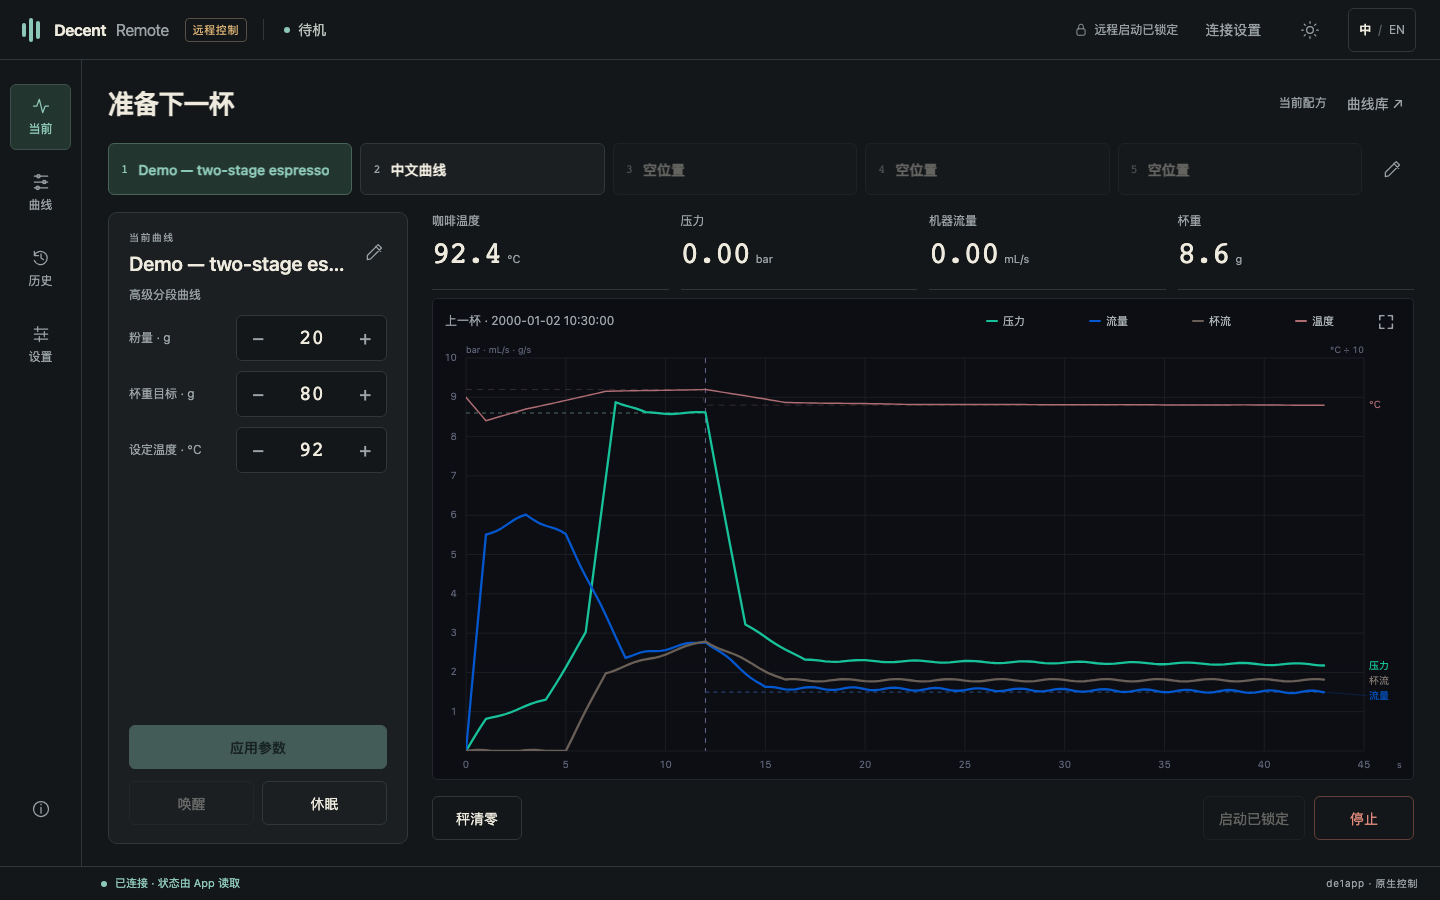
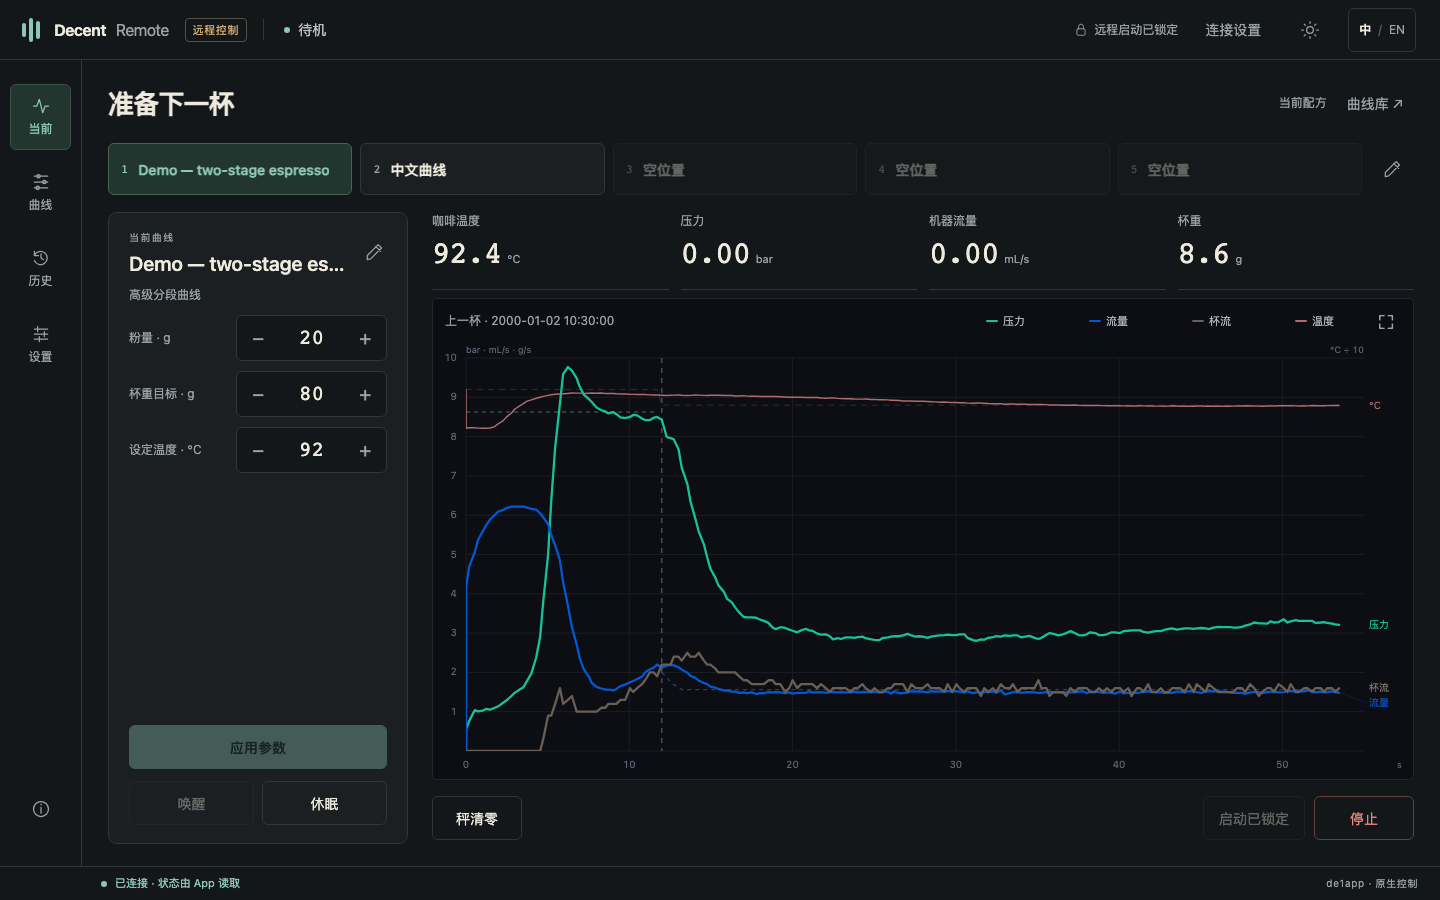
docs: clarify hardware validation and HDS integration; refresh shot screenshots

diff --git a/README.md b/README.md
@@ -14,10 +14,11 @@ The project grew out of two goals: bring more of the remote-control experience o
 
 ![Decent Remote browser dashboard](docs/images/current-en-dark.png)
 
-**Version 0.3.4** · [Download the plugin](https://github.com/chowjw-code/de1app-plugin-decent-remote/releases/latest) · [Usage by country](https://chowjw-code.github.io/de1app-plugin-decent-remote/)  
+**Version 0.3.4** · [Download the plugin](https://github.com/chowjw-code/de1app-plugin-decent-remote/releases/latest)
+
 Device-tested baseline: **classic de1app 1.46.1.1 + Streamline**.
 
-*Screenshots show the actual interface with synthetic demonstration data, not measured shots.*
+*Charts replay anonymized samples from a real shot in the released dashboard. Names, dates, dose/yield summaries and surrounding status values are demonstration data.*
 
 ## From a shot to your next adjustment
 
@@ -63,7 +64,7 @@ The plugin runs inside de1app on the tablet. There is no cloud account to create
 | Machine and recipe | Status, dose, target yield, temperature, wake, sleep and stop |
 | Profiles | Preview, load, advanced stage editing, import, save, save as, restore and favorites |
 | Shot history | Browse records, inspect chart samples, zoom and download original files |
-| Scale | Status, tare, supported stop-by-weight policies and connection settings |
+| Scale | Status, tare, supported stop-by-weight policies, connection settings and optional HDS sleep/wake integration |
 | Everyday settings | Preheat, automatic sleep, screen brightness, scheduled wake and smart charging |
 | Water and steam | Native flush, hot-water and steam settings |
 | Integrations | Structured reads, parameter updates, request-result tracking and compatibility routes for existing clients |
@@ -71,6 +72,12 @@ The plugin runs inside de1app on the tablet. There is no cloud account to create
 Switch between **English and Chinese**, or **light and dark** themes. The dashboard is designed for landscape tablets and desktop browsers. Names and notes you have written stay as you wrote them.
 
 Some functions depend on the skin, hardware or optional plugins; see [compatibility](docs/COMPATIBILITY.md). **Remote start is disabled by default**, and the webpage cannot enable the master switch. Native group-head restrictions still apply. Wake brings the machine out of sleep; it does not start a shot.
+
+### Let your HDS scale follow the machine
+
+The optional HDS integration puts a compatible scale into soft sleep when the machine sleeps, then resumes weighing when the machine wakes. With de1app’s keep-scale-on setting enabled, it uses soft sleep rather than the native power-off path. Bluetooth pairing, weight readings and tare still use de1app’s native scale support.
+
+This feature is disabled on a fresh installation. It must be enabled for a compatible HDS scale; the plugin does not identify the hardware revision automatically. See [setup and compatibility](docs/COMPATIBILITY.md#hds-scale-integration).
 
 ## Built for agent-assisted workflows
 
@@ -90,7 +97,7 @@ An app readback is not proof of a completed physical action. Profile-frame confi
 
 **Saving from the dashboard:** A new connection, page reload, profile load or restore starts without a confirmation for this page. To save a copy of unchanged current settings, select **Resend profile**, wait for confirmation, then save. If this page has no unresolved transfer, saving a newly edited draft applies it and waits for confirmation first. After an unconfirmed transfer, further edits still require an explicit resend; repeated Save clicks do not retry it.
 
-Every non-GET request to the v1 API requires a unique request ID. IDs are optional on legacy compatibility routes; integrations should use v1. Only one profile write can be in flight at a time, while status reads and stop remain available. If a result is unknown, the client can query it before deciding what to do next. Commanded flow, measured flow, inlet volume and beverage weight retain their distinct meanings.
+Every non-GET request to the v1 API requires a unique request ID. IDs are optional on legacy compatibility routes; integrations should use v1. Only one profile write can be in flight at a time, while status reads and stop remain available. If a result is unknown, the client can query it before deciding what to do next. Commanded flow, machine-reported flow, scale-derived flow, inlet volume and beverage weight retain their distinct meanings.
 
 This is an HTTP API. Connect it through your agent's HTTP tools or an adapter; no MCP server is bundled. Start with the [agent guide](docs/AGENTS.md) and [API reference](docs/API.md).
 
@@ -108,24 +115,24 @@ This is an HTTP API. Connect it through your agent's HTTP tools or an adapter; n
 
 **Disable or roll back:** disable the plugin and restart de1app. To roll back, restore the earlier plugin files while retaining the configuration. Existing profiles and shot history stay in their original folders.
 
-## Usage by country
-
-Country and region totals help us understand where Decent Remote is used. A random installation ID prevents double-counting; names, accounts, profiles and shot records are not sent. Cloudflare stores the statistics and GitHub displays aggregate totals. The release includes the deployed service URL. [View country totals](https://chowjw-code.github.io/de1app-plugin-decent-remote/). See [how statistics work and how to disable them](docs/USAGE.md).
-
 ## Compatibility and release status
 
 Decent Remote is an independent community project. It uses classic de1app's native control functions and does not replace machine firmware. It aims to extend the classic workflow, without promising every feature of newer apps.
 
-The device-tested baseline is **classic de1app 1.46.1.1 / Streamline**. The 0.3.3 UI fixes passed focused tablet checks for saving access-key settings, two sleep/wake cycles, Chinese profile names and automatic loading of 79 history records. Version 0.3.4 includes the 0.3.3 interface fixes and adds the usage-statistics client and publishing tools. The Cloudflare service URL is included in the release. Profile previews now include native basic parameters and load library metadata automatically; see the current [validation scope](docs/VALIDATION.md). Other app versions, skins and devices have not been verified.
+Validation combines automated tests and physical-device checks on a **Samsung tablet running classic de1app 1.46.1.1 / Streamline, connected to a Decent DE1PRO**.
+
+- **On the device:** state and scale readback, profile browsing, reversible settings, access-key saving and sleep/wake behavior. Focused checks included two sleep/wake cycles and automatic loading of 79 history records. An earlier candidate passed read-only previews of all 123 profiles in both languages; later revisions received focused checks of affected paths, not another complete 123-profile run.
+- **Automated:** native-call and network-response simulations exercise API behavior, failures and browser interactions without operating equipment.
+- **Still unverified:** other app versions, skins and devices, and physical remote-start actions.
 
 See [validation scope](docs/VALIDATION.md) for results and remaining gaps, the [changelog](CHANGELOG.md) for version history, and the [gallery](docs/SCREENSHOTS.md) for more interface views.
 
 ## Development and contributions
 
-The source bundle includes the plugin, dashboard, API documentation, offline tests and packaging tools. Tests mock native methods and network responses; they do not connect to coffee equipment. A GitHub Actions workflow is included. See [development](docs/DEVELOPMENT.md) to run the suite or build an install archive.
+The source bundle includes the plugin, dashboard, API documentation, automated tests and packaging tools. A GitHub Actions workflow runs the offline checks. See [development](docs/DEVELOPMENT.md) to run the suite or build an install archive.
 
 Compatibility reports, interface feedback and integration ideas are welcome. Include the app and skin versions, steps to reproduce, and screenshots with sensitive information removed. Keep access keys and private shot records out of public reports.
 
 This project is released under **GPL-3.0-only**. Third-party components retain their own notices; see [LICENSE](LICENSE) and [THIRD_PARTY.md](THIRD_PARTY.md).
 
-[简体中文](README.zh-CN.md) · [Release notes](docs/RELEASE.md) · [API](docs/API.md) · [Development](docs/DEVELOPMENT.md)
+[简体中文](README.zh-CN.md) · [Release notes](docs/RELEASE.md) · [API](docs/API.md) · [Development](docs/DEVELOPMENT.md) · [Data & privacy](docs/USAGE.md)

diff --git a/docs/SCREENSHOTS.md b/docs/SCREENSHOTS.md
@@ -2,9 +2,9 @@
 
 [English README](../README.md) · [中文 README](../README.zh-CN.md)
 
-These are screenshots of the shipped HTML at 1440 × 900, with synthetic fixtures and all network requests intercepted. They demonstrate the UI, not a measured extraction or hardware compatibility result. Profile names are user content and are not translated.
+These images render the released HTML at 1440 × 900. Chart traces replay anonymized numeric samples from a real shot, without replacing them with interpolated demonstration curves. Names, dates, recipe labels, dose/yield summaries and surrounding status values are illustrative. Rendering runs offline with intercepted requests and does not operate equipment. Profile names are user content and do not change with the interface language.
 
-以下为正式 HTML 的 1440 × 900 截图，采用合成演示数据，全部网络请求均已拦截。图片只展示界面，不代表实测出杯或设备兼容验证；曲线名称属于用户内容，不随界面语言翻译。
+以下截图使用正式 HTML，以 1440 × 900 渲染。图表回放真实出杯的匿名数值采样，不再使用插值拼出的演示曲线。名称、日期、配方标签、粉量／出液摘要及周边状态为演示值。截图通过离线回放生成，不操作设备；用户自定义名称不随界面语言翻译。
 
 ## Current · English · Dark
 
@@ -29,3 +29,9 @@ These are screenshots of the shipped HTML at 1440 × 900, with synthetic fixture
 ## 当前 · 中文 · 浅色
 
 ![浅色当前页](images/current-zh-light.png)
+
+## Generate screenshots / 生成截图
+
+Run `REMOTE_SCREENSHOT_DIR=docs/images REMOTE_SCREENSHOT_SHOT=/path/to/local-shot.json node tests/dashboard.test.cjs` with a local de1app v2 shot record. The renderer copies only the numeric chart series; identifying metadata is not used. Raw shot files are not distributed. Omitting `REMOTE_SCREENSHOT_SHOT` uses synthetic test data, so those captures will have different chart shapes from this gallery.
+
+使用本地 de1app v2 出杯记录运行上述命令。渲染器只读取图表数值序列，不使用身份信息；发布包不包含原始出杯文件。省略 `REMOTE_SCREENSHOT_SHOT` 时使用合成测试数据，生成的曲线形状与本页不同。
